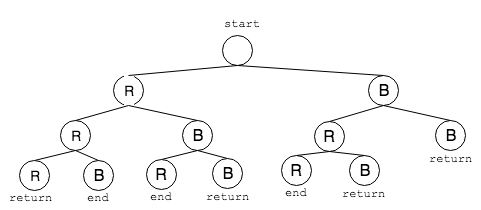
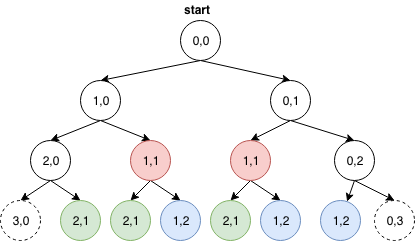
Update(auto commit)

diff --git a/_posts/2015-09-12-Algorithm-Basics-DP.md b/_posts/2015-09-12-Algorithm-Basics-DP.md
@@ -112,7 +112,7 @@ def fib3(n):
 <img src="{{site.baseurl}}/assets/images/2007/09/fib-2.png" width="50%" style="margin-left:auto; margin-right:auto;display:block"/>
 
 
-- 启发
+- **启发**
 
 斐波那契数列这个例子，给我们的一个启示是，缓存每一步的计算结果的重要性，因此理解DP的一个角度为：
 
@@ -120,7 +120,7 @@ $$
 DP \approx Recursion + Memoization
 $$
 
-但这个例子也会给人造成一种错觉，即DP就是在原来算法的基础上增加缓存即可。就这个例子而言，确实是这样，不过动态规划的思想远不止增加缓存这么简单，在接下来的几个例子中，我们将会看到DP的其它应用。
+但这个例子也会给人造成一种错觉，即DP就是在原来算法的基础上增加缓存来减少重复计算。就这个例子而言，确实是这样，不过DP的思想不只增加缓存这么简单，在接下来的几个例子中，我们将会看到通过设计巧妙的递推公式来大幅提升算法的执行效率。
 
 ### [两点间路径(Unique Paths)](https://leetcode.com/problems/unique-paths/description/)
 
@@ -138,59 +138,89 @@ $$
 
 - **蛮力算法**
 
-首先想到的是使用蛮力算法，类似走迷宫，搜索可抵达边界的每条路径，当搜走到右下角时，记作一次发现，将每次发现的次数计起来即可得到最终解。由之前介绍的深搜+回溯的思路，不难得出穷举的解法：
-
-1. 先一直向右走，走到边界回溯后向下
-2. 重复上述过程
+首先想到的是还是使用蛮力算法，类似走迷宫，搜索可抵达边界的每条路径，当搜走到右下角时，记作一次发现，将每次发现的次数计起来即可得到最终解。由之前介绍的深搜思路，机器人每到一个位置时都有两种走法，向右或者向下，因此到达终点的路径数为从右边走和从下边走结果的总和。
 
 ```cpp
-//m列，n行，起点pt = {1,1}, 终点target = {m,n} , num用来收集结果
-void dfs(int m, int n, pair<int,int>& pt, pair<int,int>& target, int& num ){
-    //走到边界
-    if(pt.second > n || pt.first > m){
-        return ;
+/*
+DFS Solution
+Time Complexity: O(2^n)
+Space Complexity: O(1)
+*/
+class Solution {
+public:
+    /*
+    i,j: 当前位置
+    w,h: 迷宫宽高
+    */
+    int dfs(int i, int j, int w, int h){
+        if(i<0||i>=h || j<0||j>=w){
+            return 0;
+        }
+        if(i==h-1 && j==w-1){
+            return 1;
+        }
+        int cd = dfs(i+1,j,w,h,result);
+        int cr = dfs(i,j+1,w,h,result);
+        return cd + cr;
+        
     }
-    //走到右下角
-    if(pt.first == target.first && pt.second == target.second){
-        num ++;
-        return;
+    int uniquePaths(int m, int n) {
+        return dfs(0,0,m,n,num);
     }
-    //向右前进
-    pt.second += 1;
-    dfs(m,n,pt,target,num);
-    pt.second -= 1;
-    
-    //向下前进
-    pt.first += 1;
-    dfs(m,n,pt,target,num);
-    pt.first -= 1;
-}
-int uniquePaths(int m, int n) {
-    pair<int,int> pt = {1,1};
-    pair<int,int> target = {m,n};
-    int num = 0;
-    dfs(m,n,pt,target,num);
-    return num;
-}
-
-
-dfs(m,n,{1,1},{m,n},num);
+};
 ```
-上述解法的确能够穷举出所有到达右下角的路径，然而效率确非常低。不难看出，上述算法是一种正向的，符合人类直觉的思考方式，即从起点出发穷举所有到达终点的可能性。我们来分析一下其时间复杂度，假设$m=3,n=2$，字母$R$表示向右走，字母$B$表示向下走，左上角为用`start`表示，右下角为`end`表示，则生成的递归树为：
+上述解法的确能够穷举出所有到达右下角的路径，然而效率确非常低。我们可以来分析一下上述解法的时间复杂度，由于每一个格子(非边界的情况)都有两种选择，向下或者向右，因此其时间复杂度和上面计算斐波那契数列一样，为几何级数`O(2^n)`。以`3x3`的棋盘为例，递归树如下：
 
-<img src="{{site.baseurl}}/assets/images/2007/09/dp-2.png" style="margin-left:auto; margin-right:auto;display:block">
+<img src="{{site.baseurl}}/assets/images/2015/09/dp-2.png" style="margin-left:auto; margin-right:auto;display:block">
 
-上述递归树可以看出，在所有的叶节点中，只有3个是有效的，其余的均为无效搜索。从某一点出发均有两条路径，因此算法的时间复杂度是呈几何级数增长的
+不难看出，上面的递归过程存在大量的重复计算，比如图中相同颜色的节点被至少计算了两次，因此我们可以考虑使用Memoization，将走过的结果保存起来，于是可以得到优化版的DFS：
 
-$$
-T(n) = 2T(n-1) ∝ O(2^n)
-$$
+
+```cpp
+/*
+DFS solution + Memoization
+Time Complexity: O(2^n) Timeout
+Space Complexity: O(1)
+*/
+class Solution {
+public:
+    /*
+    i,j: 当前位置
+    w,h: 迷宫宽高
+    um: 备忘录
+    */
+    int dfs(int i, int j, int w, int h, unordered_map<pair<int,int>,int, pair_hash>& um){
+        if(i<0||i>=h || j<0||j>=w){
+            return 0;
+        }
+        if(i==h-1 && j==w-1){
+            return 1;
+        }
+        //减少重复路径
+        if(um[{i,j}] > 0){
+            return um[{i,j}];
+        }
+        int cr = dfs(i+1,j,w,h,um);
+        int cd = dfs(i,j+1,w,h,um);
+        um[{i,j}] = cr+cd;
+        //将结果放到备忘录中
+        return um[{i,j}];   
+    }
+    int uniquePaths(int m, int n) {
+        //创建一个备忘录
+        unordered_map<pair<int,int>,int,pair_hash> um;
+        return dfs(0,0,m,n,um);
+    }
+};
+```
+
+总的来说上述DFS算法依旧是自顶向下的思维方式，即从起点出发，向终点走，穷举所有可能的情况，然后通过Memoization进行适当优化，即是优化后的速度有一定的提升，但算法执行效率还是指数级别的，当m和n变大时，这种算法将会变得不可用。
 
 - **使用DP**
 
-使用动态规划该如何思考这个问题呢，首先想到的是，能否和上个例子一样使用缓存，但是对于这个问题，由于每次搜索的路径都不同，不存在重复计算，因此缓存没有用。这时我们需要转变思路，寻找反直觉的方式，比如尝试从终点开始向前递推，则思路或许会被打开。
+使用动态规划该如何思考这个问题呢，既然上面的思路是从起点向终点自顶向下的搜索，如果我们反过来想，从终点向前进行自底向上的递推，效果会是怎么样呢？
 
-从终点出发，问题将简化成：“如果要到达`end`，需要先到达`(x,m-1)`，或者到达`(n-1,y)`，那么到达`end`的路径数就等于到达`(x,m-1)`加上到达`(n-1,y)`的路径数”。同理，对每个点均可应用上述条件，则可得出状态转移方程：
+如果从终点出发，则原问题的解将变为：“如果要到达`(m,n)`，需要先到达`(m-1,n)`，或者到达`(m,n-1)`，那么到达终点的路径数就等于到达`(m,n-1)`加上到达`(m-1,n)`的路径数”。有了原问题，接下来我们要思考该原问题是否可划分为相同的子问题，显然，对于棋盘上的每个点，均可以按照上述思路进行计算，因此原问题的解可换分若干个子问题的解，符合DP解题的条件。对每个点应用上面的计算公式，则可得出状态转移方程：
 
 $$
 dp(x,y) = dp(x-1, y) + dp(x, y-1)
@@ -225,9 +255,9 @@ int uniquePaths(int m, int n) {
     return dp[n-1][m-1];
 }
 ```
-通过DP我们将一个时间复杂度为指数级的蛮力算法转化成了一个N平方时间复杂度的算法，性能得到了一定的提升
+通过DP我们将一个时间复杂度为指数级的蛮力算法转化成了一个N平方时间复杂度的算法，性能得到了一定的提升。但必须要承认的是，这种思考方式非常反直觉，极不容易想到，正如文章开篇所说，掌握DP没有太好的捷径，只能多看，多练，多总结。做的多了，自然会感觉，慢慢就会由量变积累成质变，学习其它算法也是一样。
 
-- 启发
+- **启发**
 
 这个例子给我们的启发是：使用DP可以优化蛮力算法，如果说蛮力的搜索算法是从“源头”出发的正向过程，那么DP的思路则是从“终局”出发的反向过程。这里所谓的反向是指从终点向前推进，将“终局”问题化成与之相等价的，规模更小的子问题。因此，当我们遇到需要蛮力解决的搜索问题时，不妨试着从后向前想，看能否找到突破口。但需要注意的是，不是所有的DP问题都是由终点向原点递推，递推方式取决于子问题的划分方式。
 
@@ -349,6 +379,8 @@ int uniquePaths(int m, int n) {
 
 
 ## DP问题总结
+
+最后为了呼应开头，再总结一下求解DP问题的思路
 
 1. 将原问题分解为子问题
     - 把原问题分解为若干个子问题，子问题和原问题形式相同或类似，只不过规模变小了。子问题解决，原问题即解决

diff --git a/_posts/2009-09-25-CPP-Basics-8-STL-1.md b/_posts/2009-09-25-CPP-Basics-8-STL-1.md
@@ -566,6 +566,27 @@ unordered_map<Sale,int> b(
 	{ {"Jacob",23},101 }
 );
 ```
+另一个常见的例子是使用`unordered_map`存放`pair<T1,T2>`类型的数据，此时由于`T1,T2`的类型未知，因此`pair`并不知道如何计算自己的哈希值，因此需要使用者提供哈希函数:
+
+```cpp
+struct pair_hash {
+    template <class T1, class T2>
+    std::size_t operator () (const std::pair<T1,T2> &p) const {
+        auto h1 = std::hash<T1>{}(p.first);
+        auto h2 = std::hash<T2>{}(p.second);
+
+        // Mainly for demonstration purposes, i.e. works but is overly simple
+        return h1 ^ h2;  
+    }
+};
+
+using memo = std::pair<std::int, std::int>;
+using unordered_map = std::unordered_map<memo, int, pair_hash>;
+
+int main() {
+    unordered_map um;
+}
+```
 
 ## 容器适配器
 
